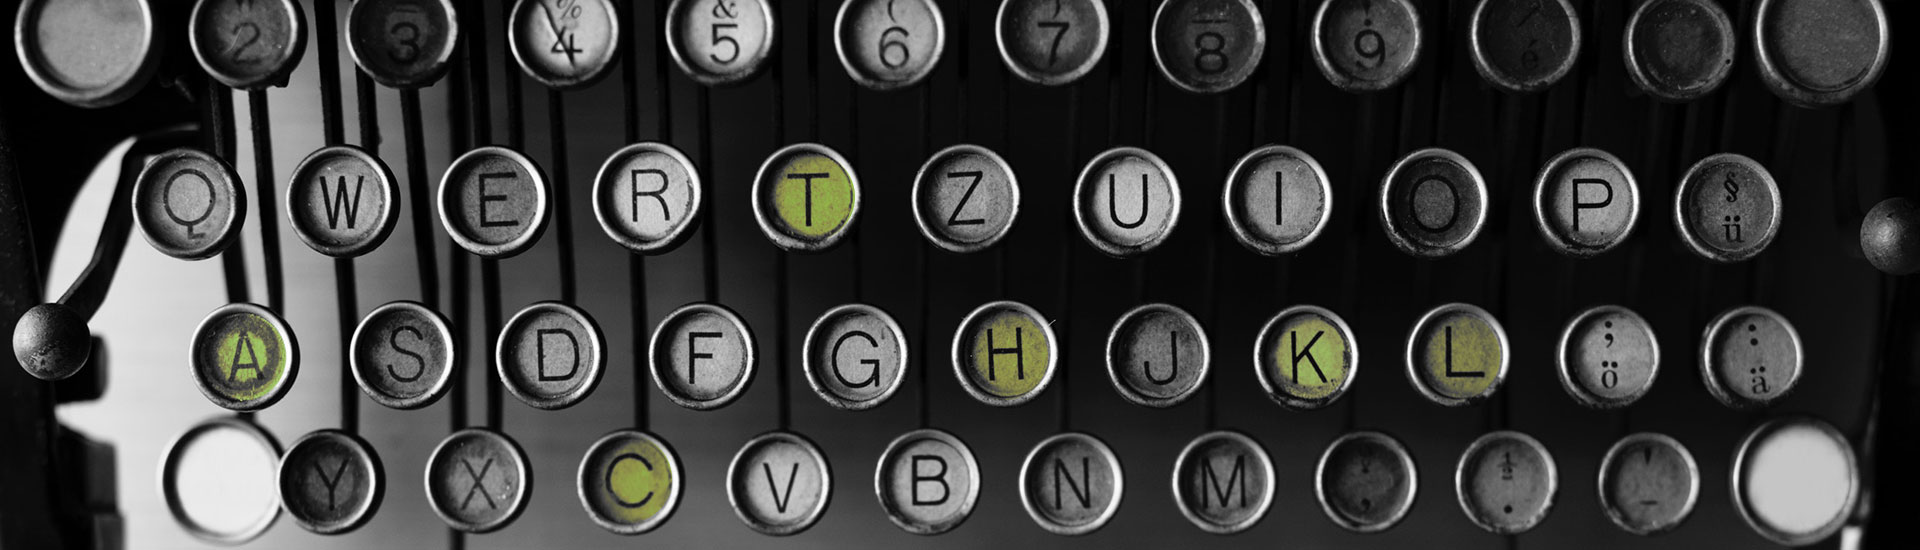
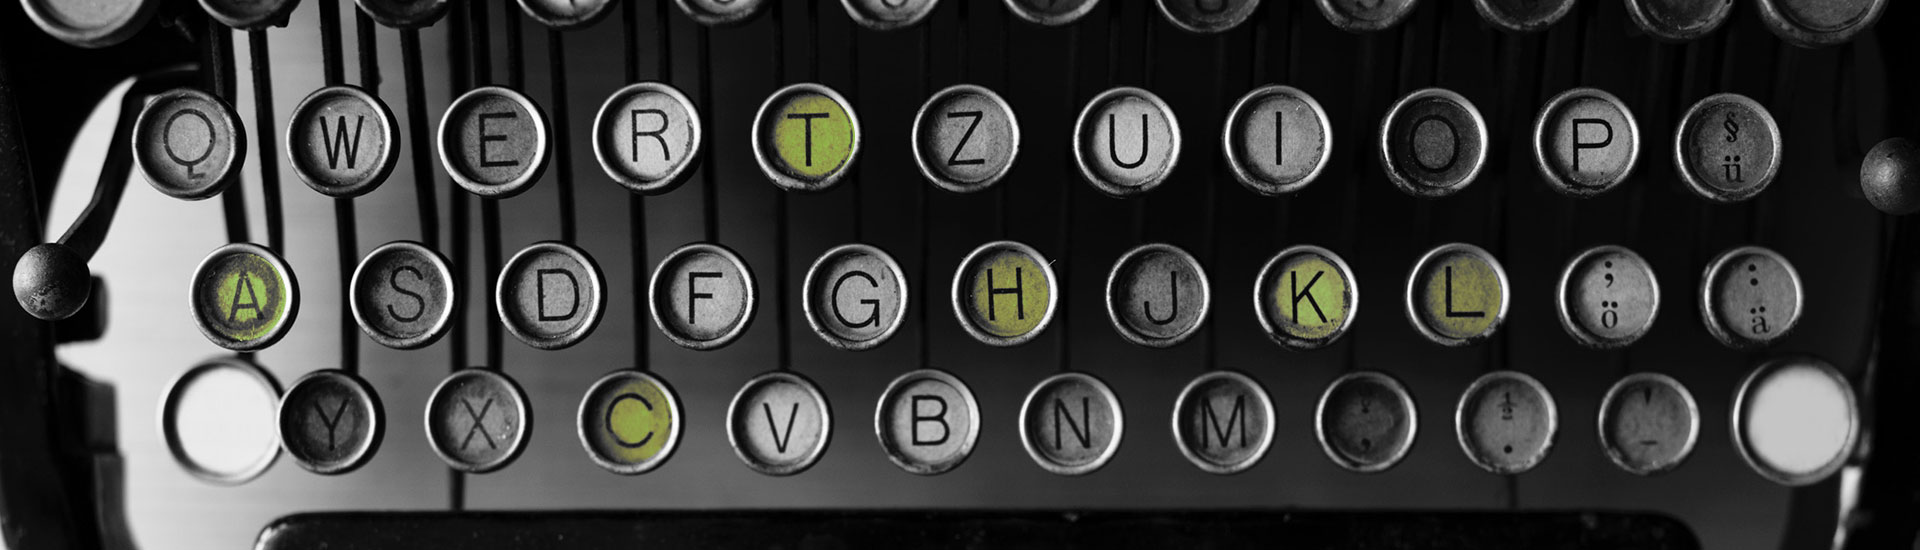
Klacht indienen form added let test

diff --git a/public/css/app.css b/public/css/app.css
@@ -11390,7 +11390,7 @@ section:first-of-type {
 }
 
 .klachtindienen-bg {
-  background-image: url(/images/altijdverzorgd-klachtindienen-bg.jpg?06052eca9b8ea6109126c23dbe1042ef);
+  background-image: url(/images/altijdverzorgd-klachtindienen-bg.jpg?9d7b51f28e7eeba6a0714cc2124d87a4);
   background-repeat: no-repeat;
   /* background-attaQzchment: fixed; */
   background-position: center;

diff --git a/resources/views/klachtindienen.blade.php b/resources/views/klachtindienen.blade.php
@@ -11,15 +11,35 @@
         <div class="col-md-12 col-md-offset-3 pt-5" id="form_container">
 
             <h2>
-                Ik wil een klacht indienen
+                Klacht indienen
             </h2>
 
             <p>
-                Stuur hieronder uw bericht. We nemen zo snel mogelijk contact met jouw aanbeveling persoon op!
+                    Bent u niet tevreden over onze dienstverlening? Dat betreuren wij zeer. <br>
+                    Stuur hieronder uw bericht. We nemen zo snel mogelijk contact u op!
             </p>
 
-            <form role="form" method="post" action="persoonaanbevelen" id="reused_form">
+            <form role="form" method="post" action="klachtindienen" id="reused_form">
                 @csrf
+                <div class="row justify-content-center">
+                    <div class="col-sm-8 col-md-6 col-lg-4 form-group">
+                        <label for="member">
+                            Naam van behandelaar*</label>
+                        <input type="text" class="form-control" id="member" name="member" required>
+                    </div>
+                </div>
+
+                <div class="row justify-content-center">
+                    <div class="col-sm-8 col-md-6 col-lg-4 form-group">
+
+                        <label for="message">
+                                Uw klacht*</label>
+                        <textarea style="resize: none;" class="form-control" type="textarea" id="message" name="message"
+                            maxlength="6000" rows="7"></textarea>
+
+                    </div>
+                </div>
+
                 <div class="row justify-content-center">
                     <div class="col-sm-8 col-md-6 col-lg-4 form-group">
                         <label for="name">
@@ -37,44 +57,16 @@
                 </div>
 
                 <div class="row justify-content-center">
-                    <div class="col-sm-8 col-md-6 col-lg-4 form-group">
-
-                        <label for="message">
-                            Je persoonlijke aanbeveling*</label>
-                        <textarea style="resize: none;" class="form-control" type="textarea" id="message" name="message"
-                            maxlength="6000" rows="7"></textarea>
-
+                        <div class="col-sm-8 col-md-6 col-lg-4 form-group">
+                            <label for="telephone_number">
+                                Je telefoonnummer*</label>
+                            <input type="tel" class="form-control" id="telephone_number" name="telephone_number" required>
+                        </div>
                     </div>
-                </div>
 
                 <div class="row justify-content-center">
                     <div class="col-sm-8 col-md-6 col-lg-4 form-group">
-                        <label for="namereference">
-                            Bij wie wil je ons aanbevelen?*</label>
-                        <input type="text" class="form-control" id="namereference" name="namereference" required>
-                    </div>
-                </div>
-
-                <div class="row justify-content-center">
-                    <div class="col-sm-8 col-md-6 col-lg-4 form-group">
-                        <label for="emailreference">
-                            Zijn of haar e-mailadres*</label>
-                        <input type="email" class="form-control" id="emailreference" name="emailreference" required>
-                    </div>
-                </div>
-
-                <div class="row justify-content-center">
-                    <div class="col-sm-8 col-md-6 col-lg-4 form-group">
-                        <label for="profession">
-                            Zijn of haar beroep*</label>
-                        <input type="text" class="form-control" id="profession" name="profession"
-                            required>
-                    </div>
-                </div>
-
-                <div class="row justify-content-center">
-                    <div class="col-sm-8 col-md-6 col-lg-4 form-group">
-                        <button type="submit" class="btn btn-lg btn-green">Stuur de aanbeveling!</button>
+                        <button type="submit" class="btn btn-lg btn-green">Klacht versturen</button>
                     </div>
                 </div>
 

diff --git a/resources/views/emails/klachtindienen.blade.php b/resources/views/emails/klachtindienen.blade.php
@@ -1,0 +1,97 @@
+<!DOCTYPE html>
+<html>
+<head>
+    <link href="https://fonts.googleapis.com/css?family=Roboto" rel="stylesheet">
+    <style>
+        body{
+            font-family: 'Roboto', sans-serif;
+            font-size: 16px;
+            background: #dfe6e9;
+            margin: 0;
+            padding: 0;
+            color: #333;
+            line-height: 26px;
+        }
+        .container{
+            background: #fff;
+            width: 96%;
+            max-width: 650px;
+            margin: 0 auto;
+            padding: 30px;
+        }
+        h1{
+            text-align: center;
+            text-transform: uppercase;
+            letter-spacing: 3px;
+            padding-bottom: 30px;
+            border-bottom: 1px solid lightgrey;
+        }
+        h2{
+            text-align: center;
+            text-transform: uppercase;
+            letter-spacing: 3px;
+            padding-bottom: 30px;
+            border-bottom: 1px solid lightgrey;
+        }
+        .request{
+            padding-bottom: 20px;
+        }
+    </style>
+</head>
+<body>
+    <div class="container">
+        <h1>
+            Klacht ingediend
+        </h1>
+        
+        <p>
+            <strong>
+                Naam van behandelaar
+            </strong>
+        </p>
+
+        <span class="request">
+            {{ $request->member }}
+        </span>
+
+        <p>
+            <strong>
+                Klacht bericht
+            </strong>
+        </p>
+    
+        <span class="request">
+                {{ $request->message }}
+        </span>
+
+        <p>
+            <strong>
+                Je Naam
+            </strong>
+        </p>
+
+        <span class="request">
+            {{ $request->name }}
+        </span>
+        
+        <p>
+            <strong>
+                Je E-mail
+            </strong>
+        </p>
+        <span class="request">
+            {{ $request->email }} 
+        </span>
+        
+        <p>
+            <strong>
+                Je telefoonnummer
+            </strong>
+        </p>
+        <span class="request">
+            {{ $request->telephone_number }} 
+        </span>
+        
+    </div>
+</body>
+</html>

diff --git a/app/Http/Controllers/Klachtindienen.php b/app/Http/Controllers/Klachtindienen.php
@@ -3,11 +3,11 @@ namespace App\Http\Controllers;
 
 use Illuminate\Http\Request;
 
-use App\Http\Requests\ErrorMessageRequest;
+use App\Http\Requests\KlachtindienenRequest;
 
 use Mail;
 use App\Member;
-use App\Mail\ContactErrorMessageRequest;
+use App\Mail\ContactKlachtindienenRequest;
 
 class Klachtindienen extends Controller
 {
@@ -17,10 +17,10 @@ class Klachtindienen extends Controller
         return view('klachtindienen', compact('memberinfos'));
     }
 
-    public function mail(ErrorMessageRequest $request)
+    public function mail(KlachtindienenRequest $request)
     {
 
-    	Mail::to('info@altijdverzorgd.nl')->send(new ContactErrorMessageRequest($request));
+    	Mail::to('info@altijdverzorgd.nl')->send(new ContactKlachtindienenRequest($request));
 
     	return redirect()->back()->with('status', 'Your message has been received');
     }

diff --git a/app/Http/Requests/KlachtindienenRequest.php b/app/Http/Requests/KlachtindienenRequest.php
@@ -1,0 +1,34 @@
+<?php
+
+namespace App\Http\Requests;
+
+use Illuminate\Foundation\Http\FormRequest;
+
+class KlachtindienenRequest extends FormRequest
+{
+    /**
+     * Determine if the user is authorized to make this request.
+     *
+     * @return bool
+     */
+    public function authorize()
+    {
+        return true;
+    }
+
+    /**
+     * Get the validation rules that apply to the request.
+     *
+     * @return array
+     */
+    public function rules()
+    {
+        return [
+            'member' => 'required',
+            'message' => 'required',
+            'name' => 'required',
+            'email' => 'required|email',
+            'telephone_number' => 'required'
+        ];
+    }
+}

diff --git a/app/Mail/ContactKlachtindienenRequest.php b/app/Mail/ContactKlachtindienenRequest.php
@@ -1,0 +1,34 @@
+<?php
+
+namespace App\Mail;
+
+use Illuminate\Bus\Queueable;
+use Illuminate\Mail\Mailable;
+use Illuminate\Queue\SerializesModels;
+use Illuminate\Contracts\Queue\ShouldQueue;
+
+class ContactKlachtindienenRequest extends Mailable
+{
+    use Queueable, SerializesModels;
+
+    public $request;
+    /**
+     * Create a new message instance.
+     *
+     * @return void
+     */
+    public function __construct($request)
+    {
+        $this->request = $request;
+    }
+
+    /**
+     * Build the message.
+     *
+     * @return $this
+     */
+    public function build()
+    {
+        return $this->view('emails.klachtindienen');
+    }
+}
